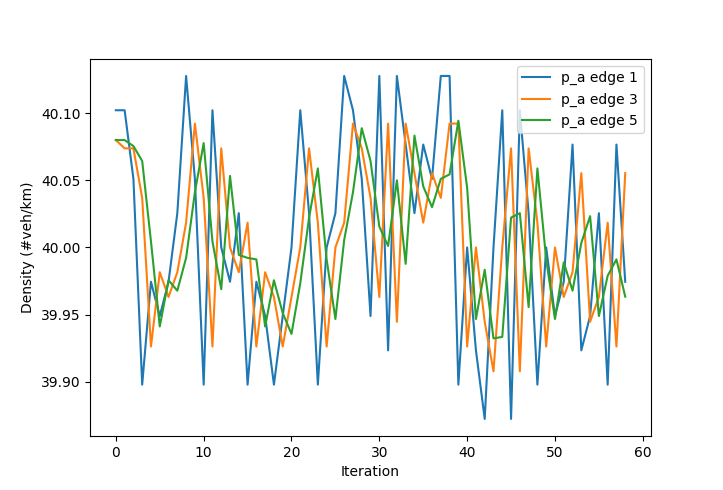
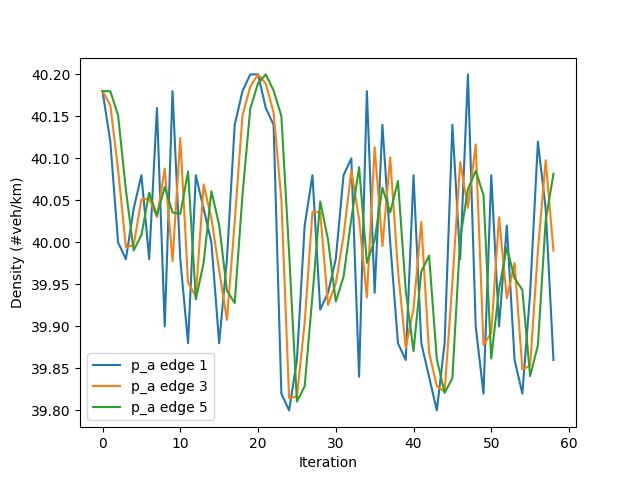
Fix q_a, d_prevk setting

diff --git a/lab3/ctm/ctm.py b/lab3/ctm/ctm.py
@@ -89,11 +89,11 @@ class Simulation:
                 prev_edge_tminus1 = iterations[-1][e-1] if i > 0 and e > 0 else None
 
                 if e == 0:
-                    d_prevk = q_a0
                     q_a = q_a0
                     if random_q0:
-                        d_prevk += random.randint(random_q0[0], random_q0[1])
-                    p_a = d_prevk / self.v0
+                        q_a += random.randint(random_q0[0], random_q0[1])
+                    d_prevk = q_a
+                    p_a = q_a / self.v0
                     '''
                     if edge_tminus1:
                         edge_tminus1_nextk = iterations[-1][1]

diff --git a/lab3/ctm/main.py b/lab3/ctm/main.py
@@ -39,7 +39,7 @@ if __name__ == '__main__':
 
     sim = Simulation(edges, m, tau, n_iters, delta_t, delta_x, v0, p_m)
     sim.add_bottleneck(4, 45)
-    output = sim.run(p_a0, q_a0, random_q0=[-5,5])
+    output = sim.run(p_a0, q_a0, random_q0=[-10,10])
 
     plot_intervals(output,'p_a',[1,2,3,4,5])
     #plot_intervals(output,'q_a')
